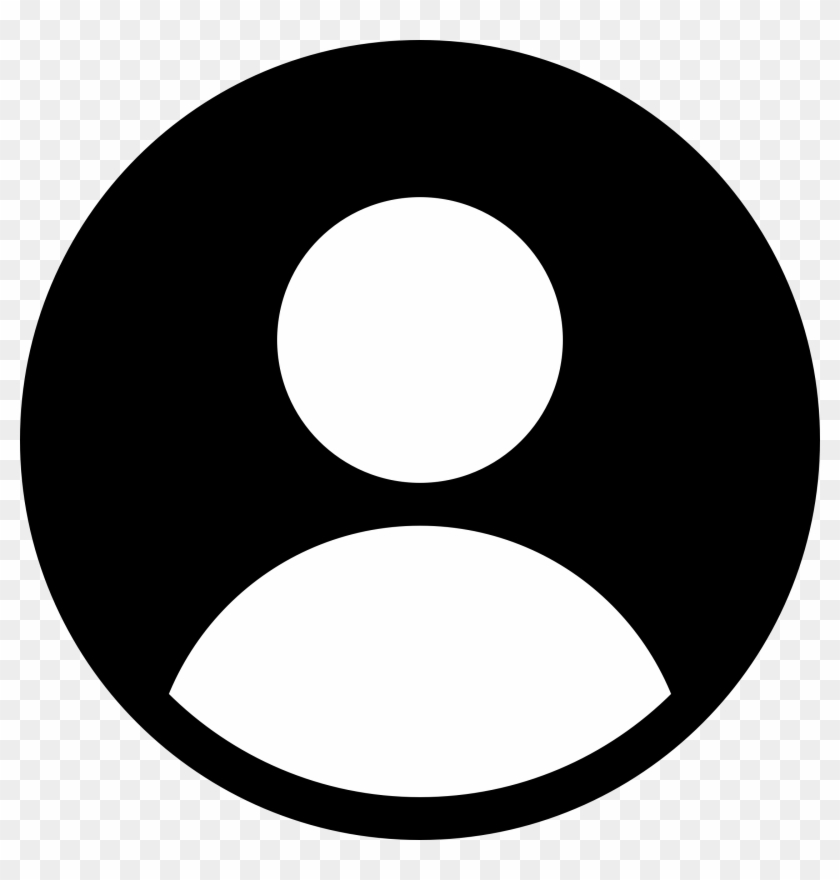
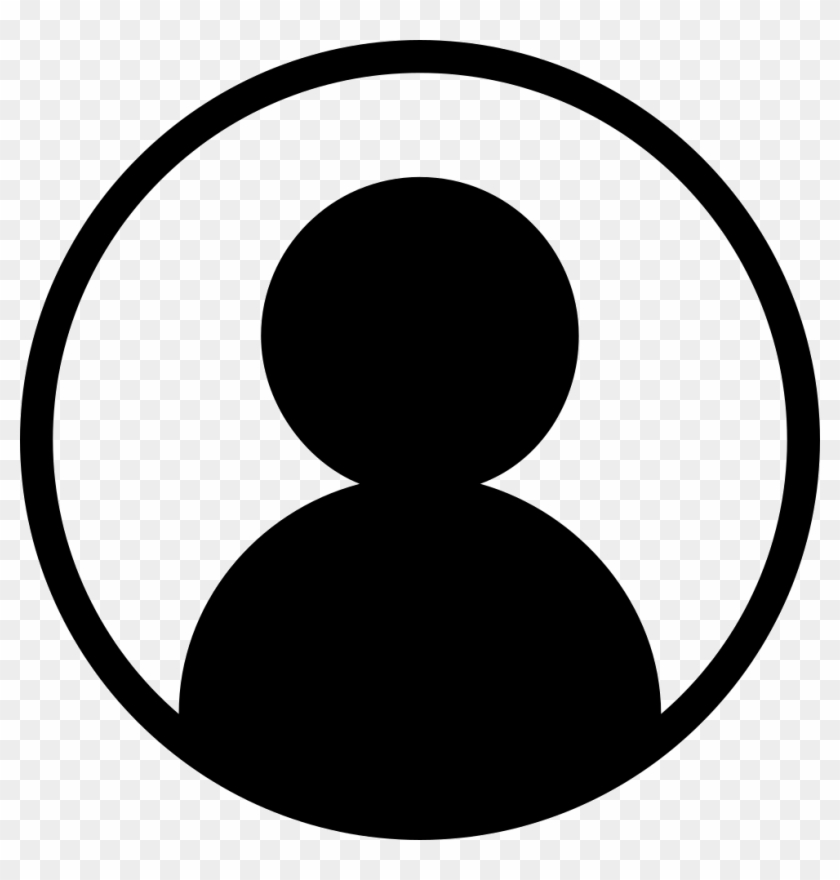
+

diff --git a/Frontend/templates/login.html b/Frontend/templates/login.html
@@ -3,7 +3,7 @@
     <!-- CSS only -->
     <link href="https://cdn.jsdelivr.net/npm/bootstrap@5.2.2/dist/css/bootstrap.min.css" rel="stylesheet" integrity="sha384-Zenh87qX5JnK2Jl0vWa8Ck2rdkQ2Bzep5IDxbcnCeuOxjzrPF/et3URy9Bv1WTRi" crossorigin="anonymous">
 
-    <link rel="icon" href="https://raw.githubusercontent.com/PECI2022/demo-repository/joao2/Frontend/templates/imgs/thumbsup.png">
+    <link rel="icon" href="https://raw.githubusercontent.com/PECI2022/demo-repository/joao2/Frontend/templates/imgs/signin.png">
     
     <title>Login</title>
 
